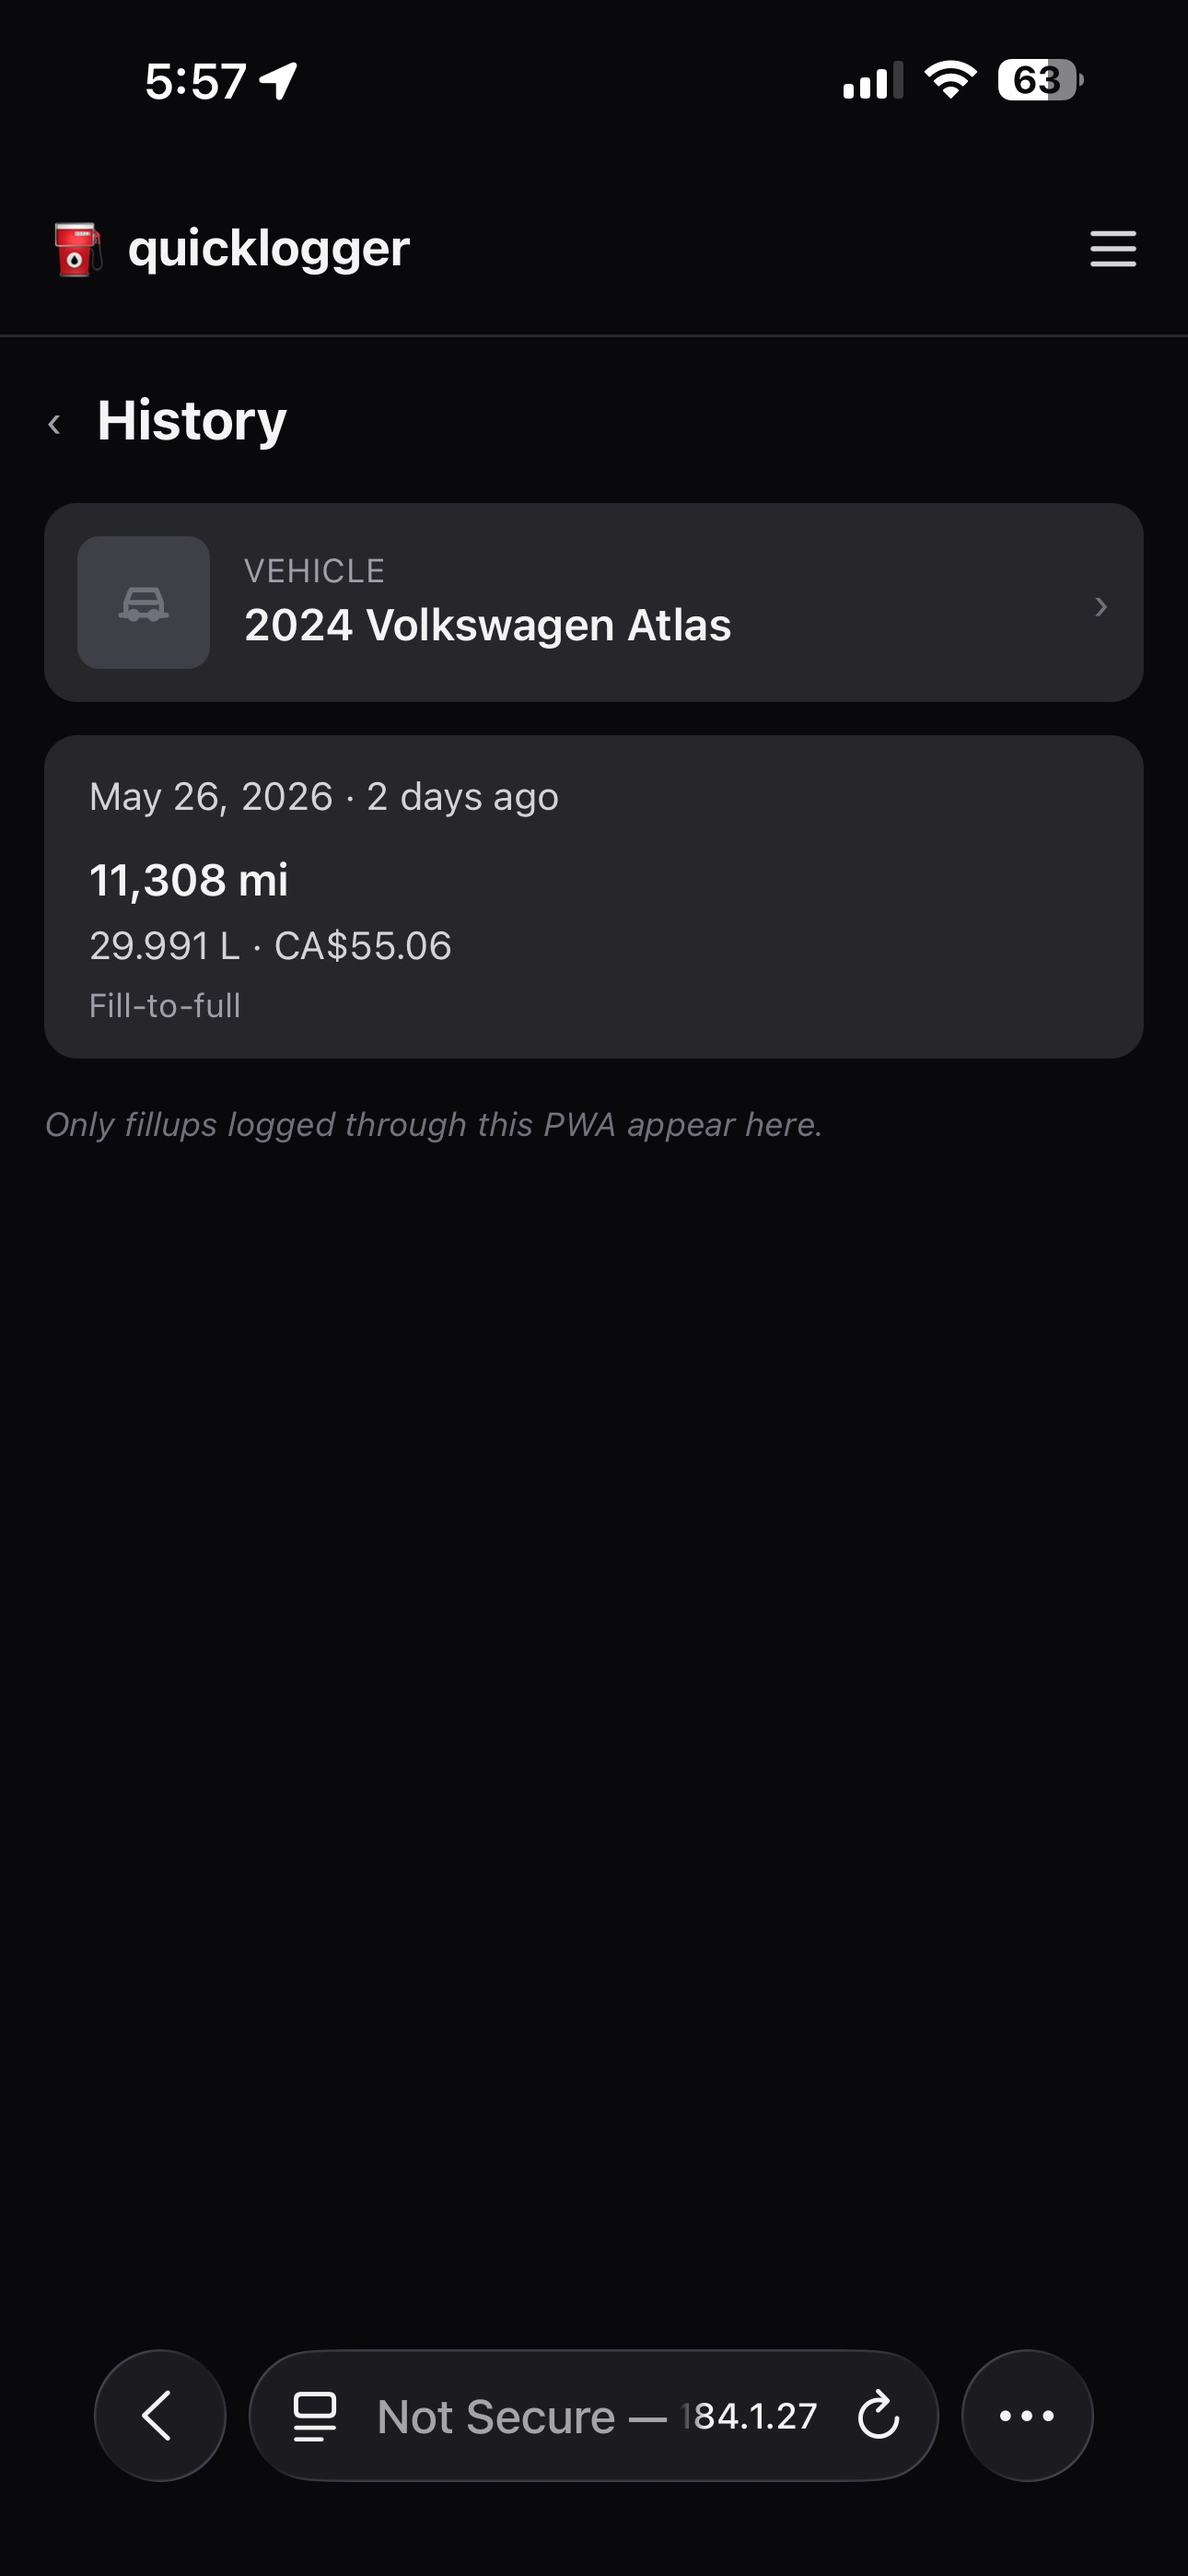
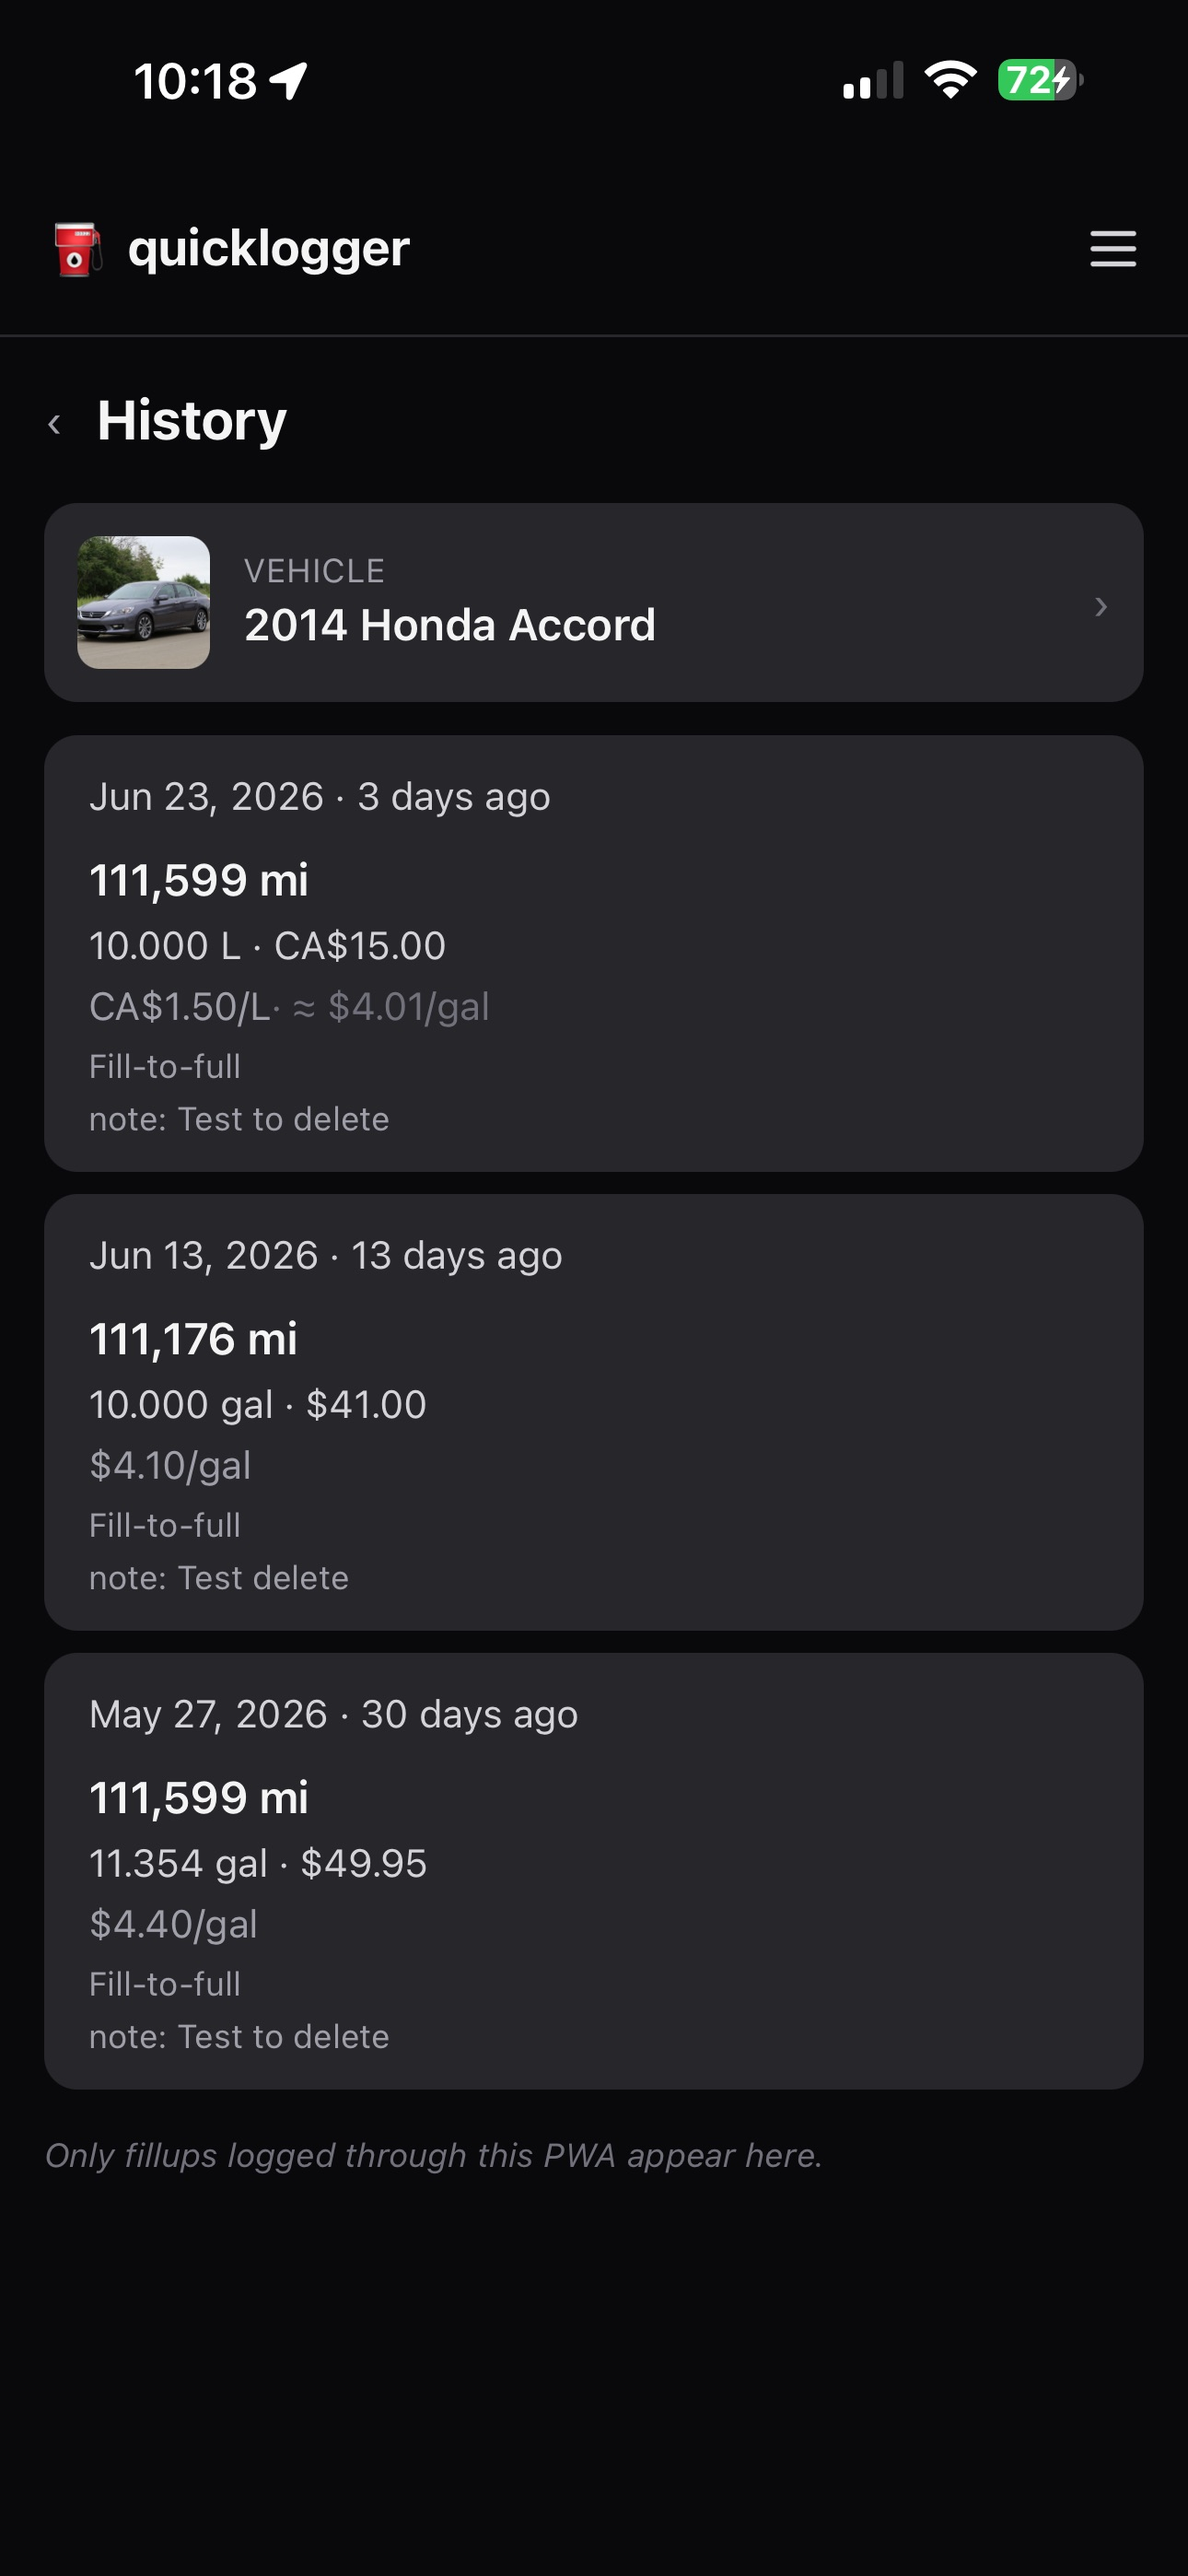
release: v0.3.0 — per-vehicle Stats page, History unit prices, pinch-zoom photo crop
Claude-Session: https://claude.ai/code/session_011pgWzTTSDZZWvJTREh63Da

diff --git a/README.md b/README.md
@@ -2,7 +2,7 @@
 
 Mobile-first PWA for logging fuel fill-ups to a self-hosted [LubeLogger](https://lubelogger.com) instance.
 
-> **Status:** v0.2.10 — stable. Single-user homelab tool, daily-driven. Public repo so anyone can fork and self-host.
+> **Status:** v0.3.0 — stable. Single-user homelab tool, daily-driven. Public repo so anyone can fork and self-host.
 
 ## Built with Claude Code
 
@@ -42,6 +42,12 @@ LubeLogger's web UI is great for review and analytics, but entering a fill-up at
     <td><img src="docs/screenshots/vehicles.jpeg" alt="Vehicle picker" width="240"></td>
     <td><img src="docs/screenshots/settings.jpeg" alt="Settings" width="240"></td>
     <td><img src="docs/screenshots/photo-preview.jpeg" alt="Photo preview before OCR" width="240"></td>
+  </tr>
+  <tr>
+    <td align="center" colspan="3"><strong>Stats</strong></td>
+  </tr>
+  <tr>
+    <td align="center" colspan="3"><img src="docs/screenshots/stats.jpeg" alt="Per-vehicle Stats" width="240"></td>
   </tr>
 </table>
 

diff --git a/CHANGELOG.md b/CHANGELOG.md
@@ -2,7 +2,7 @@
 
 All notable changes to this project are documented here. Format roughly follows [Keep a Changelog](https://keepachangelog.com/en/1.1.0/); the project follows [SemVer](https://semver.org/) (pre-1.0 minor bumps may include breaking changes — read the entry).
 
-## [0.3.0] — Unreleased
+## [0.3.0] — 2026-06-26
 
 ### Added
 
